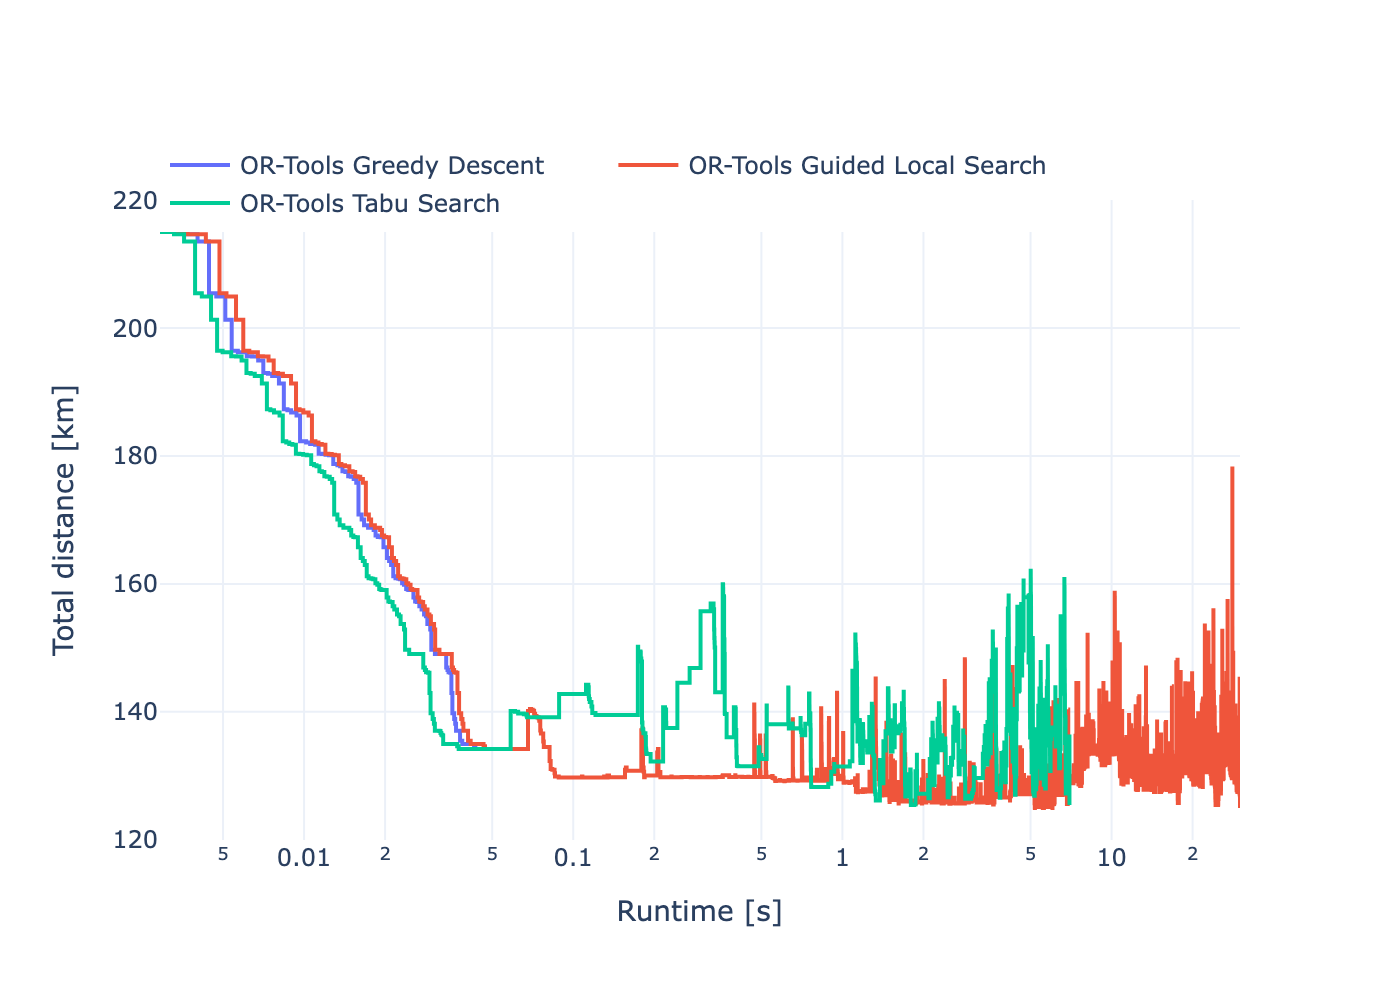
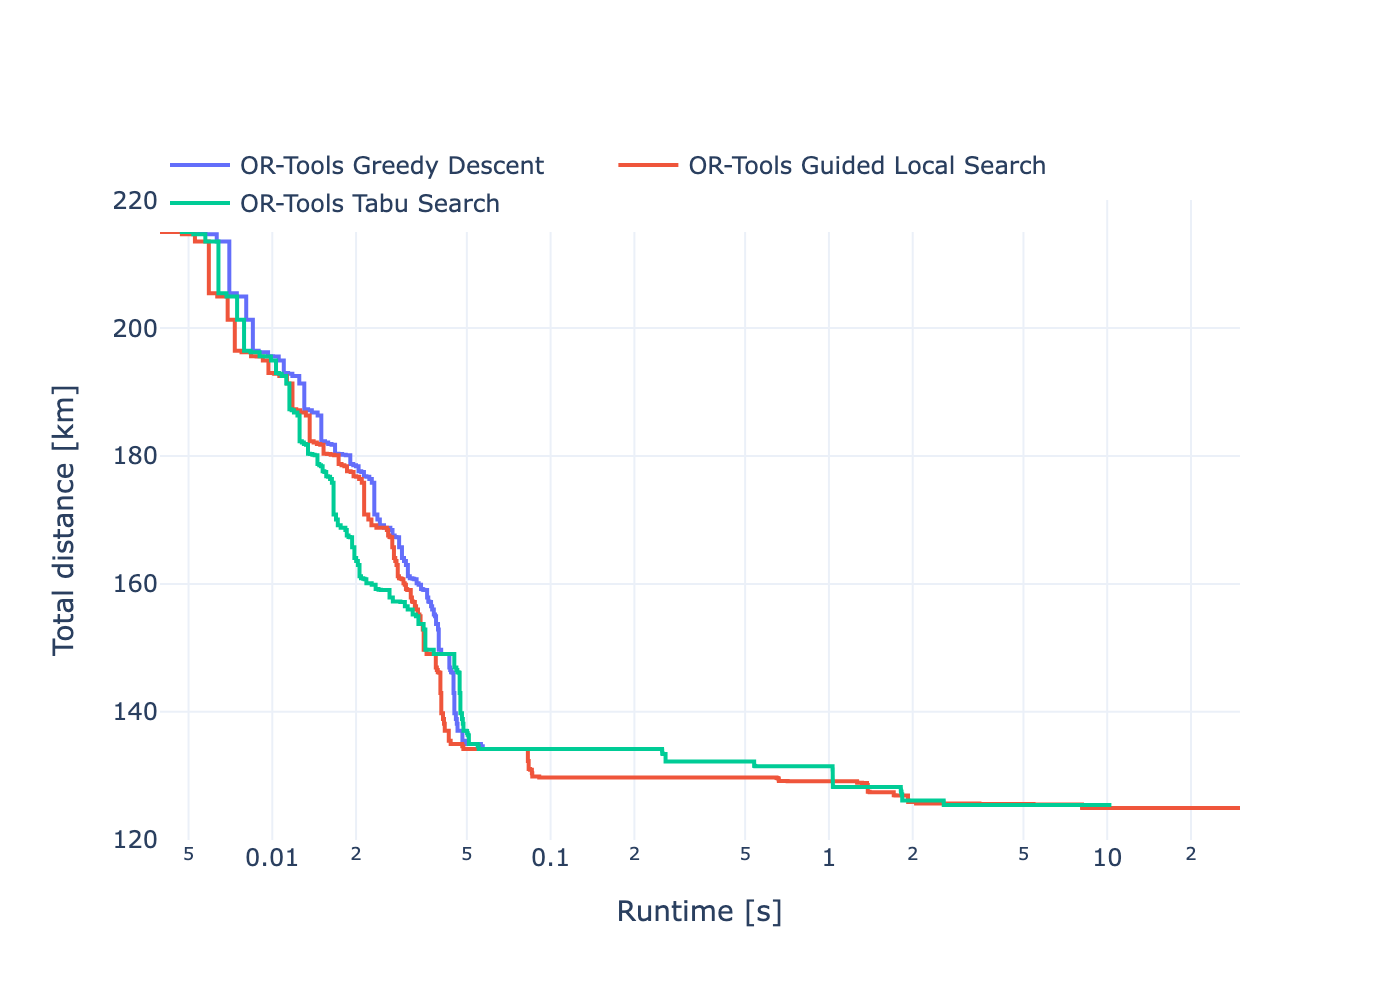
evaluated current best convergence trace and tighter route animation

diff --git a/src/cityroute/viz.py b/src/cityroute/viz.py
@@ -88,6 +88,10 @@ def route_map(net, sc, sol, windows=True):
 def gif(net, sc, sol, path, windows=True, frames=150, fps=25):
     traj = trajectories(net, sc, sol, windows)
     pts = net.xy[sc.sites]
+    lo, hi = pts.min(0), pts.max(0)
+    pad = 0.06 * (hi - lo)
+    lo, hi = lo - pad, hi + pad
+    w, h = (hi - lo) * [np.cos(np.radians(pts[:, 1].mean())), 1]
     fig, ax = ox.plot_graph(
         net.graph,
         show=False,
@@ -96,12 +100,11 @@ def gif(net, sc, sol, path, windows=True, frames=150, fps=25):
         edge_color="#d9d9d9",
         edge_linewidth=0.5,
         bgcolor="white",
-        figsize=(8, 8),
+        figsize=(8, 8 * h / w),
     )
-    lo, hi = pts.min(0), pts.max(0)
-    pad = 0.08 * (hi - lo)
-    ax.set_xlim(lo[0] - pad[0], hi[0] + pad[0])
-    ax.set_ylim(lo[1] - pad[1], hi[1] + pad[1])
+    fig.subplots_adjust(0, 0, 1, 1)
+    ax.set_xlim(lo[0], hi[0])
+    ax.set_ylim(lo[1], hi[1])
     ax.scatter(*pts[1:].T, s=12, c="white", edgecolors="black", linewidths=0.6, zorder=3)
     ax.scatter(*pts[0], s=90, c="black", marker="s", zorder=4)
     colors = [COLORS[k % len(COLORS)] for k in range(len(traj))]
@@ -120,7 +123,9 @@ def gif(net, sc, sol, path, windows=True, frames=150, fps=25):
         label.set_text(_clock(now))
         return [*trails, *dots, label]
 
-    FuncAnimation(fig, draw, frames=frames, blit=True).save(path, writer=PillowWriter(fps=fps))
+    FuncAnimation(fig, draw, frames=frames, blit=True).save(
+        path, writer=PillowWriter(fps=fps), dpi=90
+    )
     plt.close(fig)
 
 

diff --git a/src/cityroute/solve.py b/src/cityroute/solve.py
@@ -1,5 +1,6 @@
 import time as clock
 from dataclasses import dataclass, field
+from itertools import accumulate
 
 from ortools.constraint_solver import pywrapcp, routing_enums_pb2
 
@@ -47,8 +48,11 @@ def ortools(
             dim.CumulVar(model.Start(v)).SetRange(*sc.windows[0].tolist())
             dim.CumulVar(model.End(v)).SetRange(*sc.windows[0].tolist())
     if exact:
+        model.AddConstantDimension(1, n, True, "visits")
+        visits = model.GetDimensionOrDie("visits")
         for v in range(k):
-            model.NextVar(model.Start(v)).RemoveValue(model.End(v))
+            visits.SetCumulVarSoftLowerBound(model.End(v), 2, 10**7)
+            model.SetVehicleUsedWhenEmpty(True, v)
 
     params = pywrapcp.DefaultRoutingSearchParameters()
     params.first_solution_strategy = getattr(routing_enums_pb2.FirstSolutionStrategy, first)
@@ -77,4 +81,6 @@ def ortools(
             routes.append(route)
     total = distance(sc, routes)
     label = name or f"OR-Tools {metaheuristic.replace('_', ' ').title()}"
-    return Solution(label, routes, total, runtime, [*trace, (runtime, total)])
+    trace.append((runtime, total))
+    best = accumulate((c for _, c in trace), min)
+    return Solution(label, routes, total, runtime, [(t, c) for (t, _), c in zip(trace, best)])

diff --git a/benchmarks/city.py b/benchmarks/city.py
@@ -58,9 +58,12 @@ def main():
     rows = []
     for k in range(a.vehicles - 2, 2 * a.vehicles + 1):
         s = solve.ortools(replace(sc, vehicles=k), a.time_limit / 3, True, exact=True)
-        if s:
+        print(
+            f"vehicles={k:2d} "
+            + (f"distance={s.distance:7.2f} km used={s.vehicles}" if s else "no solution")
+        )
+        if s and s.vehicles == k:
             rows.append((k, s.distance))
-            print(f"vehicles={k:2d} distance={s.distance:7.2f} km")
     viz.tradeoff(rows).write_image(assets / "tradeoff.png", scale=2)
 
     best = min((s for s in vrptw if s), key=lambda s: s.distance)

diff --git a/ROADMAP.md b/ROADMAP.md
@@ -1,8 +1,8 @@
 # Roadmap
 
-1. [ ] Setup: `uv sync`, tests green
-2. [ ] Network + scenario for Heidelberg cached in `data/`
-3. [ ] City benchmark: comparison table, convergence plot, tradeoff plot, GIF
+1. [x] Setup: `uv sync`, tests green
+2. [x] Network + scenario for Heidelberg cached in `data/`
+3. [~] City benchmark: numbers done (CVRP GLS 98.7 km, VRPTW 125 km, tradeoff min at 7 vehicles); visuals unchecked
 4. [ ] Solomon C1/C2 vs BKS (verify BKS values against the literature)
 5. [ ] Streamlit app runs locally
 6. [ ] Streamlit Community Cloud deployment (requirements/packaging)
